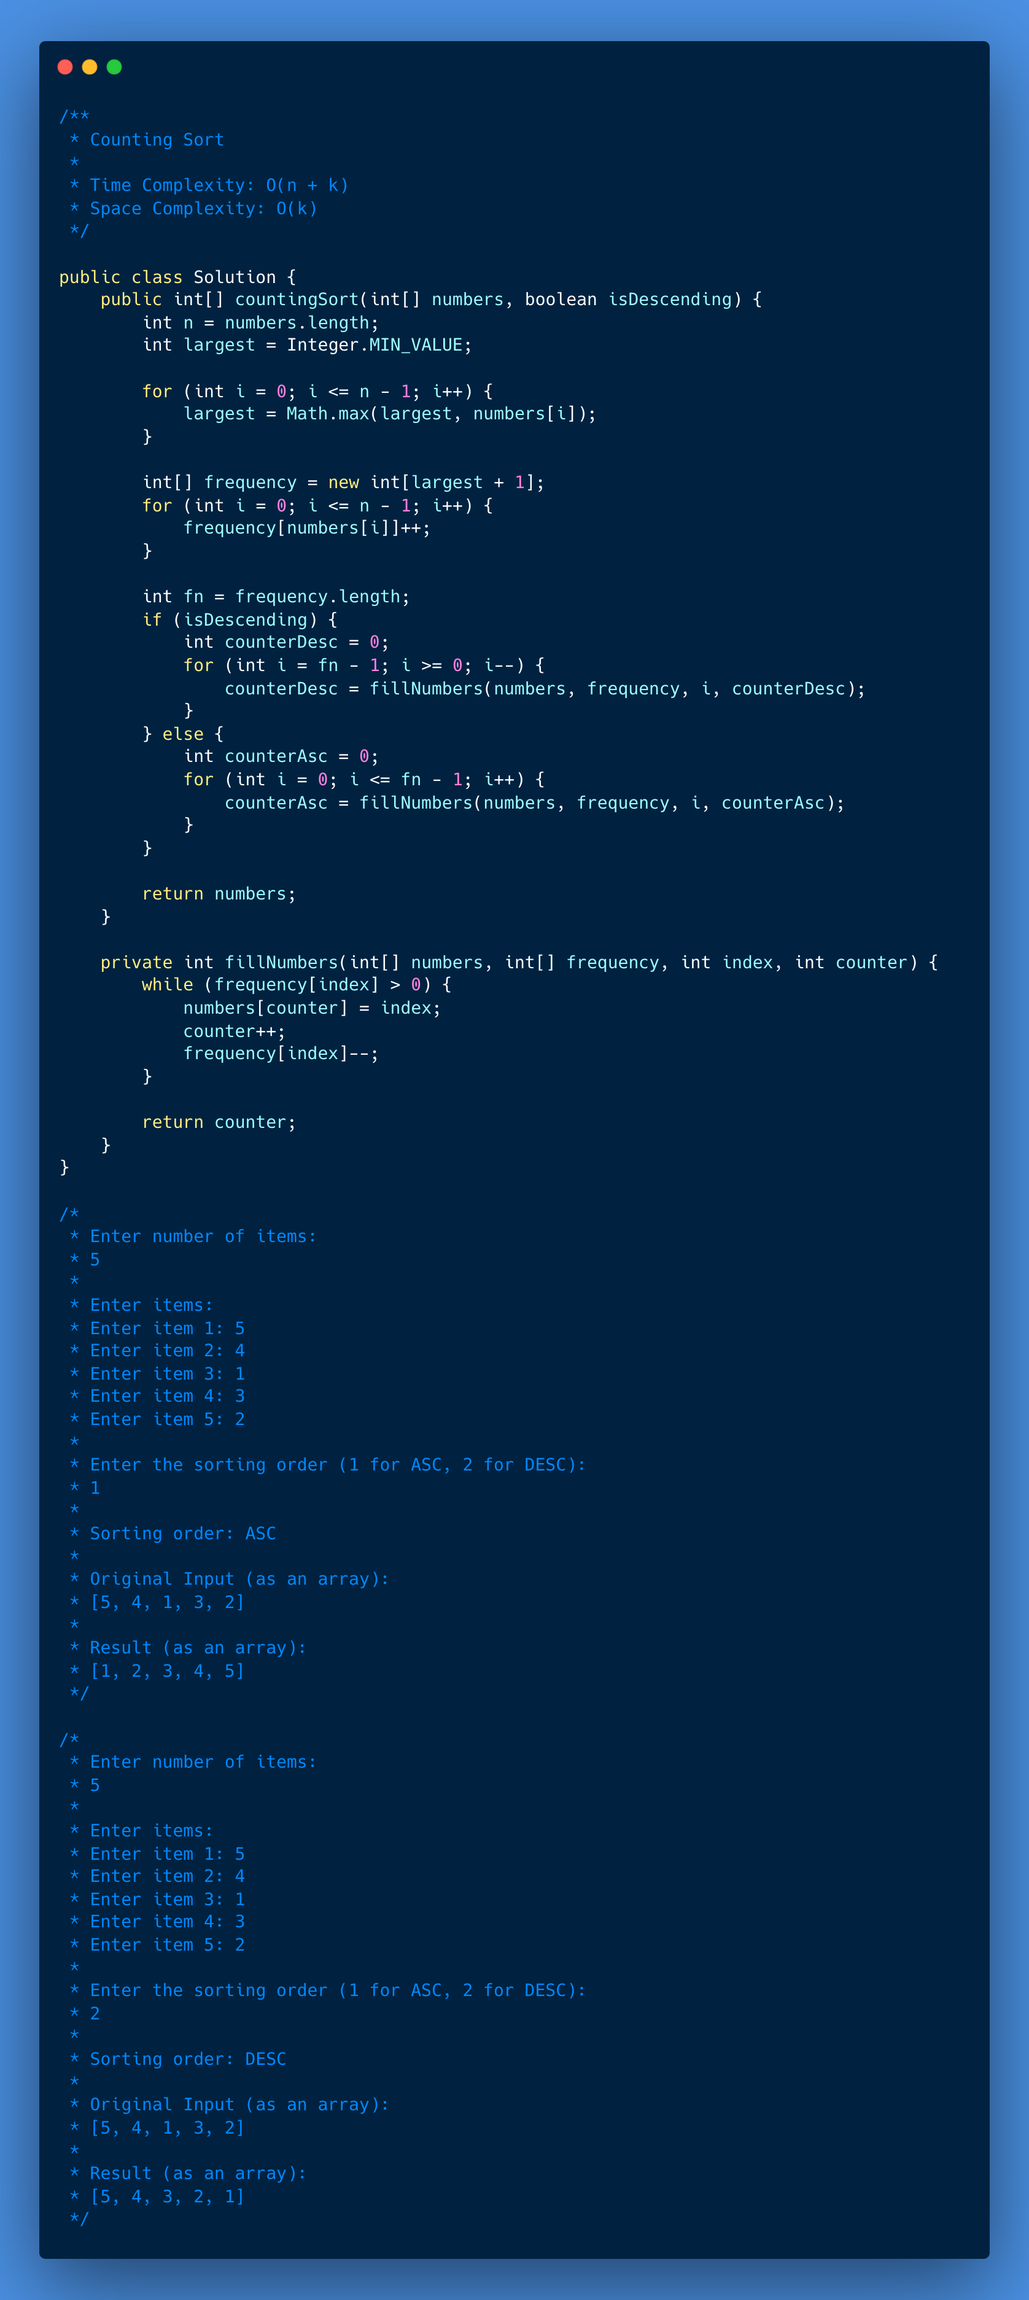
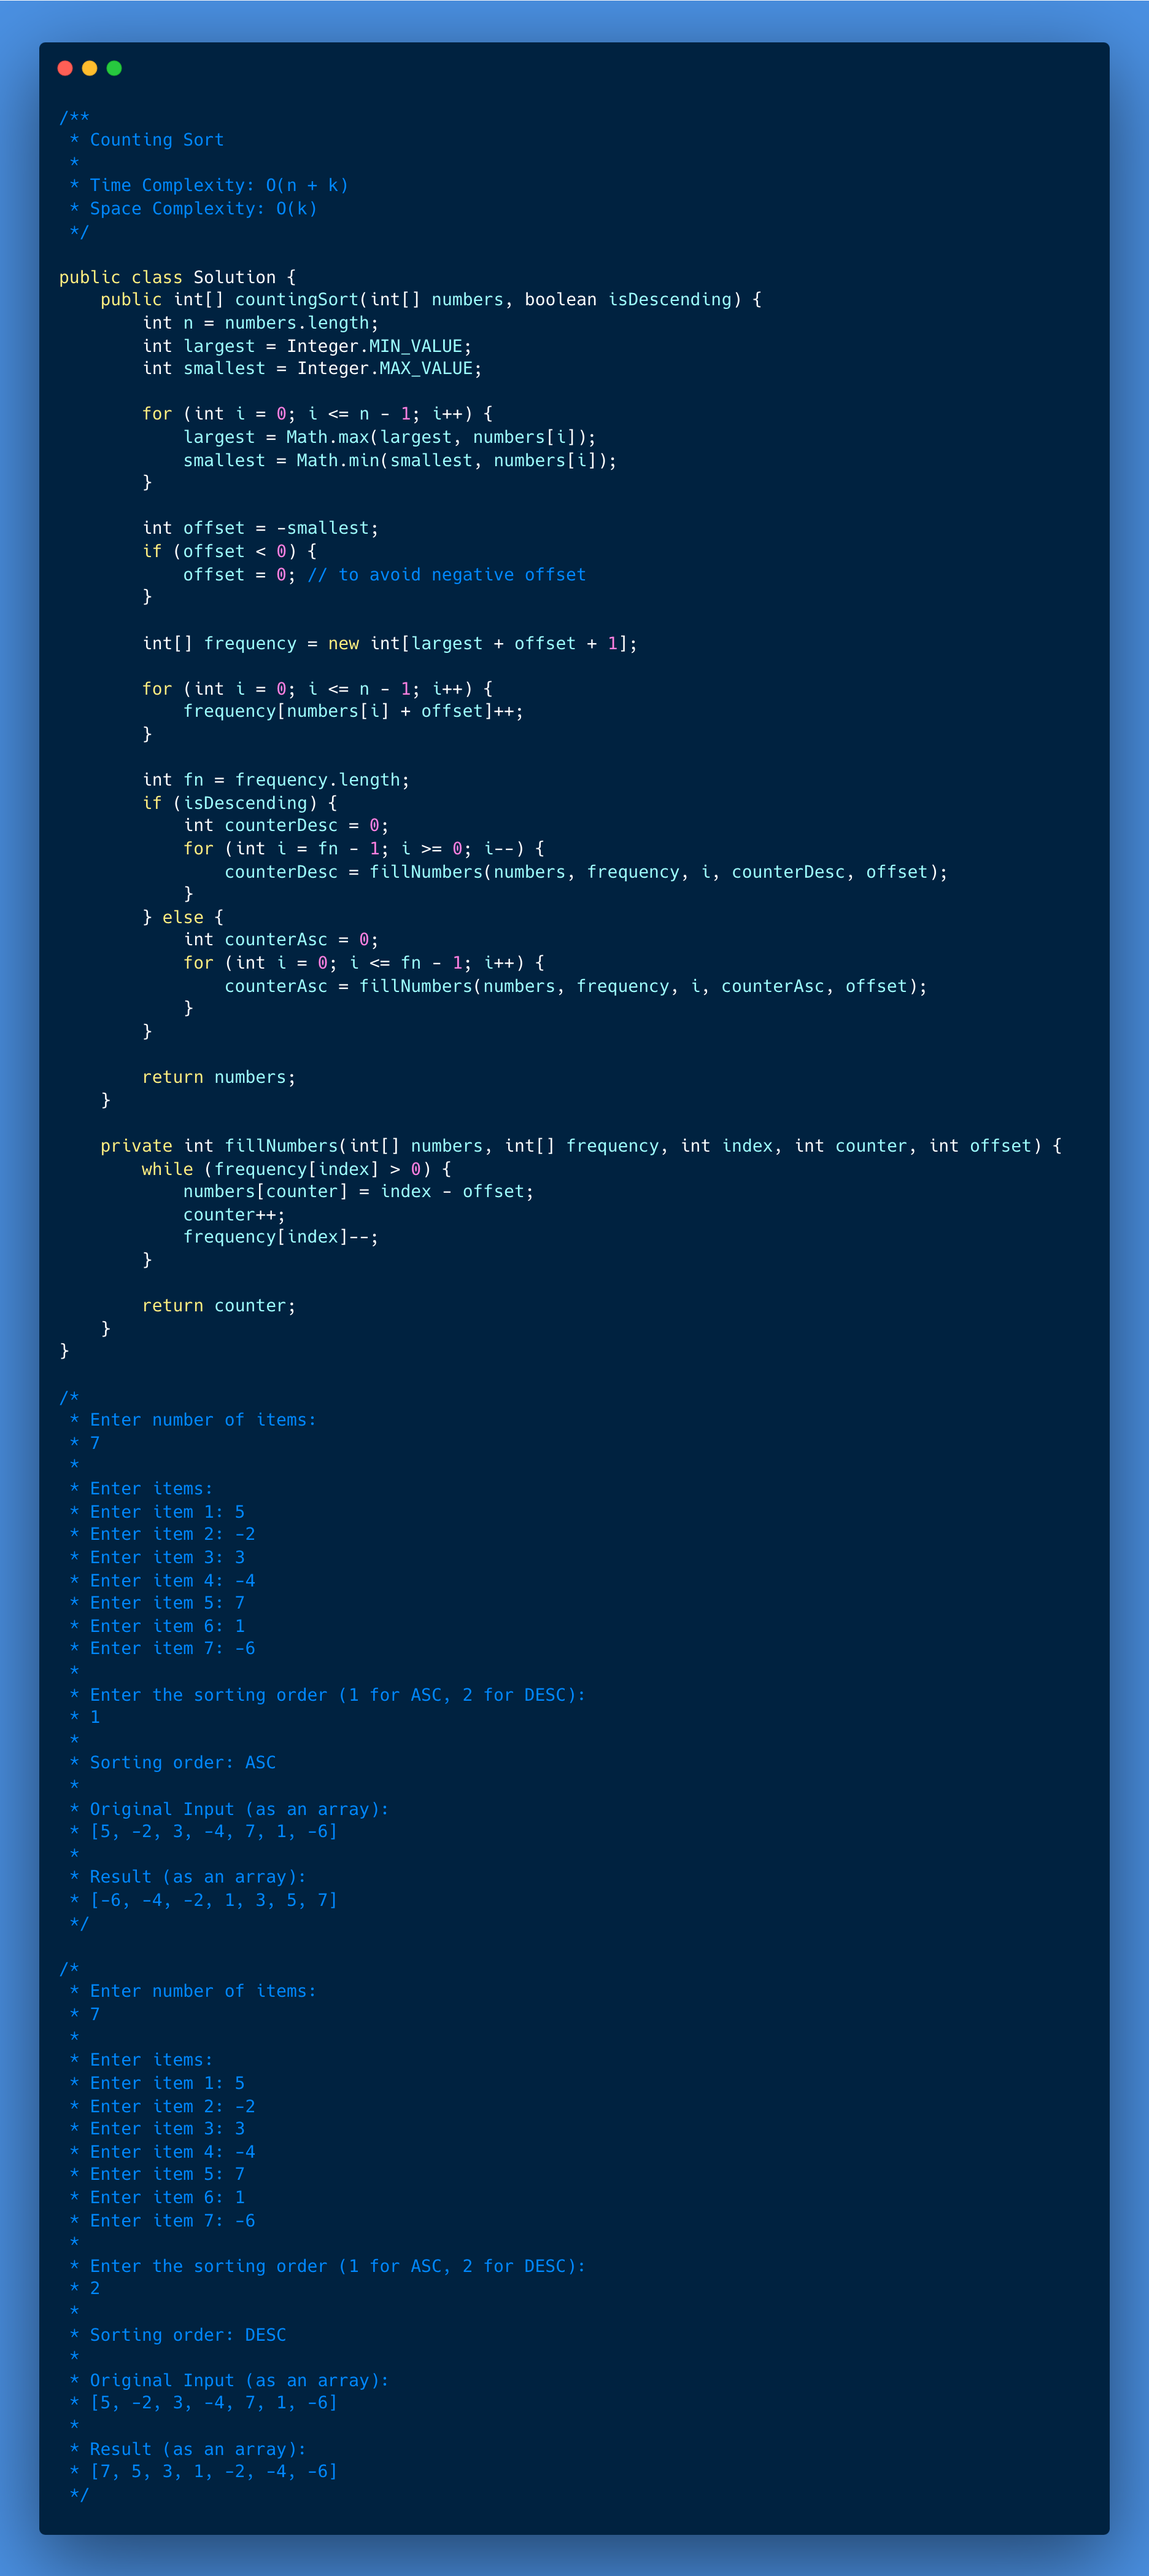
Counting sort updates to handle negative integers

diff --git a/055-counting-sort/001-solution/Solution.java b/055-counting-sort/001-solution/Solution.java
@@ -9,35 +9,43 @@ public class Solution {
     public int[] countingSort(int[] numbers, boolean isDescending) {
         int n = numbers.length;
         int largest = Integer.MIN_VALUE;
+        int smallest = Integer.MAX_VALUE;
 
         for (int i = 0; i <= n - 1; i++) {
             largest = Math.max(largest, numbers[i]);
+            smallest = Math.min(smallest, numbers[i]);
         }
 
-        int[] frequency = new int[largest + 1];
+        int offset = -smallest;
+        if (offset < 0) {
+            offset = 0; // to avoid negative offset
+        }
+
+        int[] frequency = new int[largest + offset + 1];
+
         for (int i = 0; i <= n - 1; i++) {
-            frequency[numbers[i]]++;
+            frequency[numbers[i] + offset]++;
         }
 
         int fn = frequency.length;
         if (isDescending) {
             int counterDesc = 0;
             for (int i = fn - 1; i >= 0; i--) {
-                counterDesc = fillNumbers(numbers, frequency, i, counterDesc);
+                counterDesc = fillNumbers(numbers, frequency, i, counterDesc, offset);
             }
         } else {
             int counterAsc = 0;
             for (int i = 0; i <= fn - 1; i++) {
-                counterAsc = fillNumbers(numbers, frequency, i, counterAsc);
+                counterAsc = fillNumbers(numbers, frequency, i, counterAsc, offset);
             }
         }
 
         return numbers;
     }
 
-    private int fillNumbers(int[] numbers, int[] frequency, int index, int counter) {
+    private int fillNumbers(int[] numbers, int[] frequency, int index, int counter, int offset) {
         while (frequency[index] > 0) {
-            numbers[counter] = index;
+            numbers[counter] = index - offset;
             counter++;
             frequency[index]--;
         }
@@ -48,14 +56,16 @@ public class Solution {
 
 /*
  * Enter number of items:
- * 5
+ * 7
  * 
  * Enter items:
  * Enter item 1: 5
- * Enter item 2: 4
- * Enter item 3: 1
- * Enter item 4: 3
- * Enter item 5: 2
+ * Enter item 2: -2
+ * Enter item 3: 3
+ * Enter item 4: -4
+ * Enter item 5: 7
+ * Enter item 6: 1
+ * Enter item 7: -6
  * 
  * Enter the sorting order (1 for ASC, 2 for DESC):
  * 1
@@ -63,22 +73,24 @@ public class Solution {
  * Sorting order: ASC
  * 
  * Original Input (as an array):
- * [5, 4, 1, 3, 2]
+ * [5, -2, 3, -4, 7, 1, -6]
  * 
  * Result (as an array):
- * [1, 2, 3, 4, 5]
+ * [-6, -4, -2, 1, 3, 5, 7]
  */
 
 /*
  * Enter number of items:
- * 5
+ * 7
  * 
  * Enter items:
  * Enter item 1: 5
- * Enter item 2: 4
- * Enter item 3: 1
- * Enter item 4: 3
- * Enter item 5: 2
+ * Enter item 2: -2
+ * Enter item 3: 3
+ * Enter item 4: -4
+ * Enter item 5: 7
+ * Enter item 6: 1
+ * Enter item 7: -6
  * 
  * Enter the sorting order (1 for ASC, 2 for DESC):
  * 2
@@ -86,8 +98,8 @@ public class Solution {
  * Sorting order: DESC
  * 
  * Original Input (as an array):
- * [5, 4, 1, 3, 2]
+ * [5, -2, 3, -4, 7, 1, -6]
  * 
  * Result (as an array):
- * [5, 4, 3, 2, 1]
+ * [7, 5, 3, 1, -2, -4, -6]
  */
